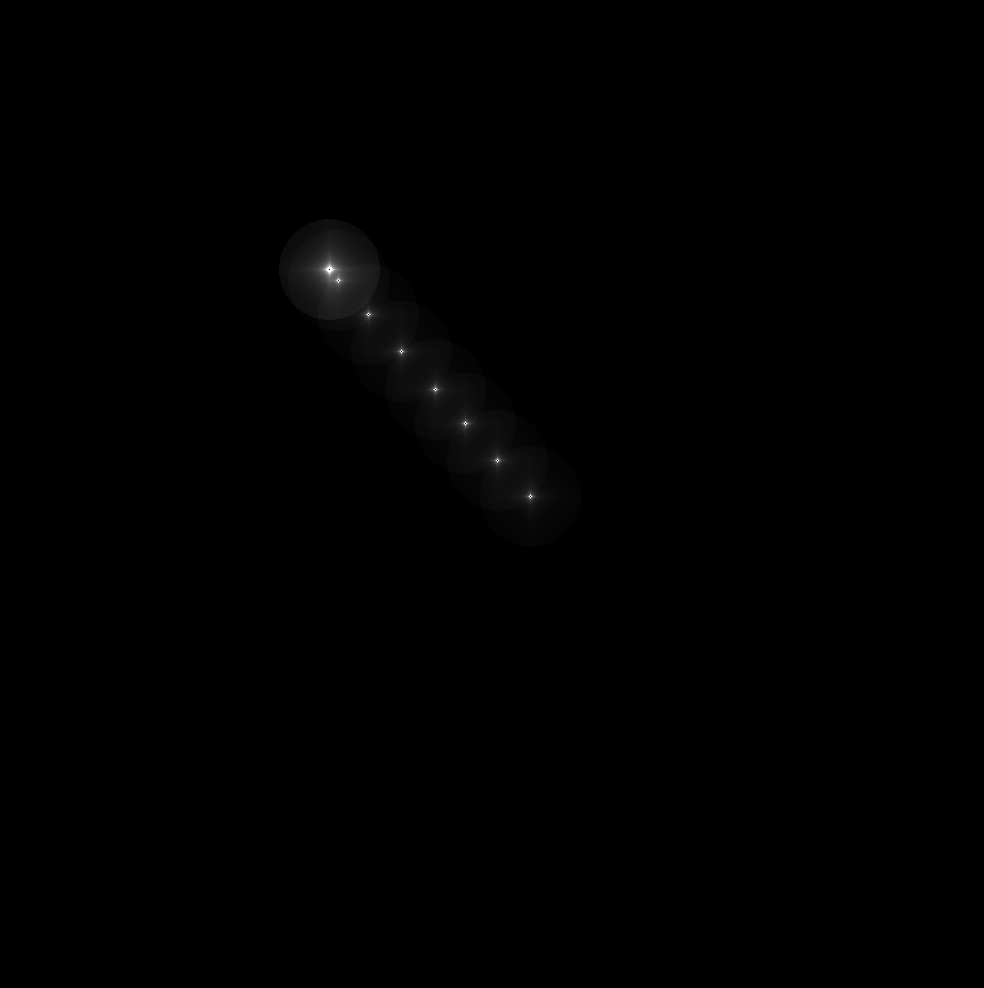
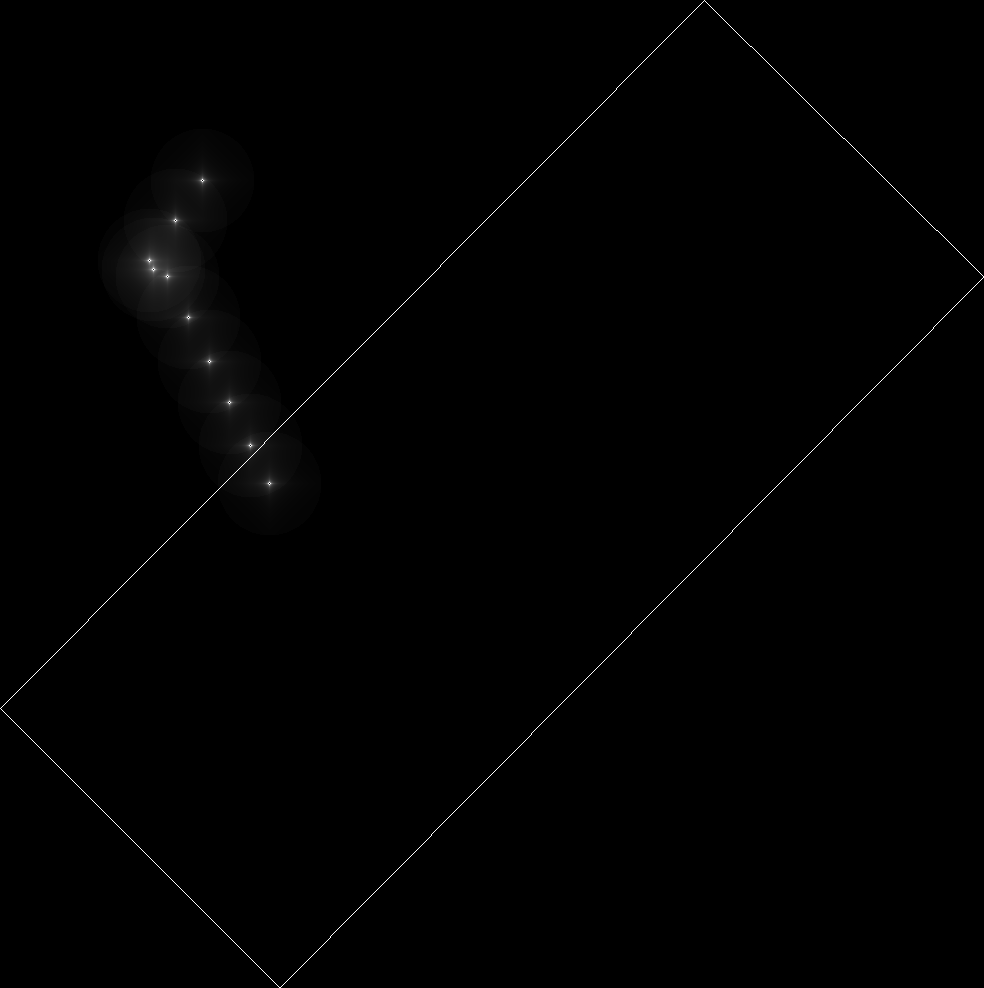
added fixes

diff --git a/matrix_handler.py b/matrix_handler.py
@@ -31,7 +31,6 @@ class OpencvMatrix:
             y_coord_in_our_system,
         ) = self.translate_into_our_coordinate_system(x_uav, y_uav)
         self.matrix[-y_coord_in_our_system, x_coord_in_our_system] = value
-        # print(self.matrix[-y_coord_in_our_system, x_coord_in_our_system])
 
     def put_point_from_our_coord_in_matrix(
         self, x_coord_in_our_system: float, y_coord_in_our_system: float, value: int
@@ -97,15 +96,14 @@ class OpencvMatrix:
             coef=10,  # вот этот коэффициент желательно подогнать
         ):
             try:
-                # print(x_center, x_point_in_our_system)
                 if (
                     abs(x_center - x_px_point_in_our_systemoint)
                     + abs(y_center - y_point_in_our_system)
                 ):
                     return 10 / (
-                        abs(x_center - x_px_point_in_our_systemoint)
-                        + abs(y_center - y_point_in_our_system)
-                    )  # * coef
+                        abs(x_center - x_px_point_in_our_systemoint)/5
+                        + abs(y_center - y_point_in_our_system)/5
+                    )  * coef
                 else:
                     return 0  # coef * 4
             except Exception as e:
@@ -211,8 +209,6 @@ class OpencvMatrix:
                 else:
                     return False
 
-            # print(point_list_to_cv[0]) a_del = np.delete(a, 1, 0) - ноль это строчка
-            # print(len(point_list))
             ans_list = []
             for i in range(len(point_list)):
                 if check_if_close(
@@ -224,11 +220,7 @@ class OpencvMatrix:
                 ):
                     ans_list.append(point_list[i])
                 else:
-                    # print(i)
-                    # ans_list.append(point_list[i])
-                    # np.delete(point_list, i, 0)
                     pass
-            # print(len(ans_list))
 
             # наносим значения распыления на нашу матрицу для этих точек
             self.spray_on_neigh_cells(point_list=ans_list)

diff --git a/poliv_handler.py b/poliv_handler.py
@@ -41,27 +41,32 @@ class Poliv:
         )
 
     def save_matrix_to_jpeg(self):
-        # img = Image.fromarray(self.matrix_handler.matrix)
-        # image_filename = "our_territory.jpeg"
-        # img.save(image_filename)
-        # rectangle =
         x_arr = np.array(self.matrix_handler.x_point_of_searching_sqr).reshape(4, 1)
         y_arr = np.array(self.matrix_handler.y_point_of_searching_sqr).reshape(4, 1)
+        # self.matrix_handler.matrix_columns
         # print(x_arr.reshape(4, 1))
-        # print(np.concatenate((x_arr, y_arr), axis=1))
+        # print(np.concatenate((x_arr, y_arr), axis=1)) self.matrix_handler.matrix_columns - 
         our_rect_massive = np.concatenate((x_arr, y_arr), axis=1)
+        for i in range(len(our_rect_massive)):
+            print(our_rect_massive[i], self.matrix_handler.matrix_rows)
+            print(abs(int((our_rect_massive[i][0] - self.matrix_handler.matrix_rows/2))))
+            our_rect_massive[i] = self.matrix_handler.translate_into_our_coordinate_system((our_rect_massive[i][0]),
+                                                                                           our_rect_massive[i][1])
+            
+        # our_rect_massive = our_rect_massive.T
+        print(our_rect_massive)
+        
+        matrix_to_png = np.rot90(self.matrix_handler.matrix)
         img_mod = cv2.polylines(
             self.matrix_handler.matrix,
             [our_rect_massive],
             True,
-            (0, 255, 0),
-            thickness=3,
+            (255, 255, 255),
+            thickness=1,
         )
         cv2.imwrite("output.png", img_mod)
         ...
 
     def save_matrix_to_csv(self):
-        # np.set_printoptions(threshold=sys.maxsize)
-        # print(self.matrix_handler.matrix)
         df = pd.DataFrame(self.matrix_handler.matrix)
         df.to_csv("data.csv", index=True)

diff --git a/settings.py b/settings.py
@@ -1,0 +1,22 @@
+polic_gect = 4 # (литров на гектар)
+speed = 4.88 # (метров в секунду)
+lirt_per_min = 0.6 # (литров в минуту)
+# (задействовано две форсунок)
+
+
+# одна форсунка 
+lirt_per_min = 0.3
+polic_gect = 2
+h = 3 #(высота в метрах)
+
+# что имеется
+# угол распыления форсунки
+# 292.8 метра при данной скорости дрон пролетает за минуту
+# соответсвенно за 1 минуту покрывается площадь 2*h*tg(alpa)*L, где L - пройденное расстояние дроном (примерно равномерно)
+# соответсвенно надо понять обьемный расход в минуту 
+
+
+
+# Пользователь задает параметры:
+ - высоту
+ - 
